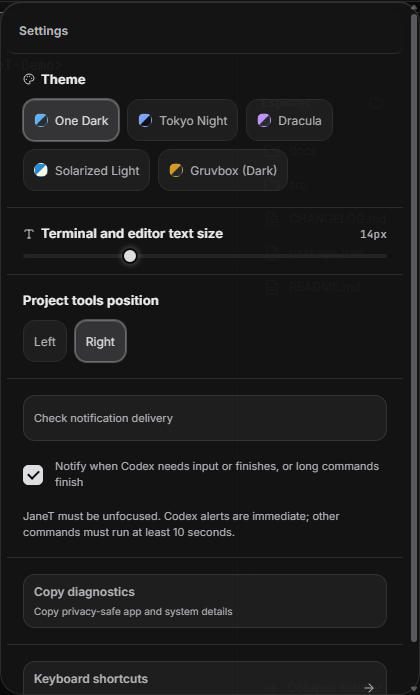
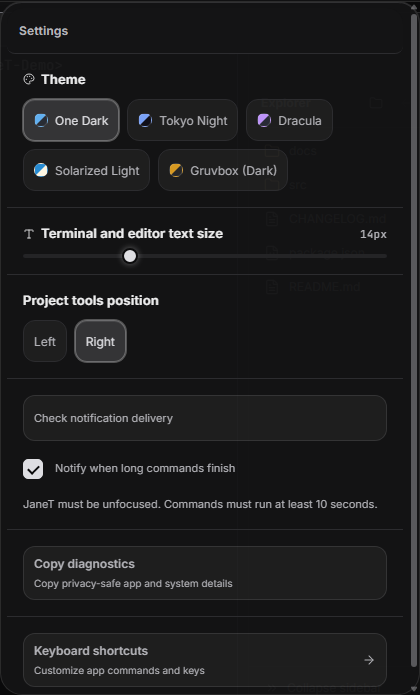
Stop JaneT from installing Codex hooks automatically (#164)
* fix: stop JaneT from installing Codex hooks

* chore: prepare v0.13.1 release

Changed region(s): [[0.031, 0.6345, 0.8976, 0.9971], [0.9595, 0.9065, 1.0, 0.9669], [0.8667, 0.9367, 0.8976, 0.9971]]

diff --git a/src/main/shell-init.ts b/src/main/shell-init.ts
@@ -9,7 +9,7 @@ export const STARTUP_READY_MARKER = '\x1b]777;janet-ready\x1b\\';
  *
  * - emits an OSC 7 escape sequence (file://HOST/PATH) before every prompt,
  *   so JaneT can keep its cwd-aware UI in sync; and
- * - prepares agent activity hooks.
+ * - prepares Hermes activity hooks.
  *
  * The Hermes wrapper is installed only when `hermes` currently resolves to
  * an external command, so a user's alias or function is never replaced.
@@ -101,7 +101,7 @@ export function buildShellInit(shell: string, agentHelper?: string): string {
       "}",
     ].join('\n');
     const helper = agentHelper?.replace(/['\u2018\u2019]/g, quote => quote + quote);
-    const agents = (agentHelper ? ['codex', 'hermes'] : []).map(agent => [
+    const agents = (agentHelper ? ['hermes'] : []).map(agent => [
       `$__jt_cli = Get-Command ${agent} -ErrorAction SilentlyContinue`,
       `$__jt_node = @(Get-Command node -CommandType Application -ErrorAction SilentlyContinue)[0]`,
       `if ($__jt_cli -and $__jt_cli.CommandType -in @('Application', 'ExternalScript') -and $__jt_node) {`,
@@ -162,7 +162,6 @@ export function buildShellInit(shell: string, agentHelper?: string): string {
       "    command hermes \"$@\"",
       "  }",
       "fi",
-      agentWrapper(agentHelper, 'bash'),
       "__jt_debug() {",
       "  local __jt_status=$?",
       "  (( __jt_debug_guard )) && return \"$__jt_status\"",
@@ -204,7 +203,7 @@ export function buildShellInit(shell: string, agentHelper?: string): string {
       "  }",
       "fi",
       "fi",
-    ].join('\n') + agentWrapper(agentHelper, 'zsh');
+    ].join('\n');
   }
 
   // Fish. The fish-prompt event handler.
@@ -250,7 +249,7 @@ export function buildShellInit(shell: string, agentHelper?: string): string {
       "  end",
       "end",
       "end",
-    ].join('\n') + agentWrapper(agentHelper, 'fish');
+    ].join('\n');
   }
 
   // cmd.exe has no scripting facility for per-prompt hooks. We could
@@ -259,21 +258,10 @@ export function buildShellInit(shell: string, agentHelper?: string): string {
   // empty so cmd.exe gets no init.
   return '';
 }
-
 function setupAgent(helper: string | undefined, agent: string, shell: string): string {
   if (!helper) return '';
   const quoted = shell === 'fish' ? helper.replace(/\\/g, '\\\\').replace(/'/g, "\\'") : helper.replace(/'/g, "'\\''");
   return shell === 'fish'
     ? `if command -sq node; command node '${quoted}' --setup-${agent} $argv; end`
     : `if command -v node >/dev/null 2>&1; then command node '${quoted}' --setup-${agent} "$@"; fi`;
-}
-
-function agentWrapper(helper: string | undefined, shell: string): string {
-  if (!helper) return '';
-  const setup = setupAgent(helper, 'codex', shell);
-  if (shell === 'fish') return `\nif type -q codex; and test (type -t codex) = file\nfunction codex\n${setup}\ncommand codex $argv\nend\nend\n`;
-  const condition = shell === 'zsh'
-    ? '(( $+commands[codex] && ! $+aliases[codex] && ! $+galiases[codex] && ! $+functions[codex] ))'
-    : '[ "$(type -t codex 2>/dev/null)" = file ]';
-  return `\nif ${condition}; then\nfunction codex {\n${setup}\ncommand 'codex' "$@"\n}\nfi\n`;
 }

diff --git a/tests/unit/agentCliLaunch.test.ts b/tests/unit/agentCliLaunch.test.ts
@@ -130,7 +130,7 @@ describe('automatic agent launch runtime', () => {
     } finally { bridge.close(); fs.rmSync(directory, { recursive: true, force: true }); }
   }, 25000);
 
-  it.skipIf(process.platform !== 'win32')('ordinary PowerShell codex invocation installs before launch and preserves arguments and exit status', async () => {
+  it.skipIf(process.platform !== 'win32')('ordinary PowerShell codex invocation leaves global hooks untouched', async () => {
     const directory = fs.mkdtempSync(path.join(fs.realpathSync(os.tmpdir()), "janet launch's "));
     const bridge = new AgentActivityBridge(() => {});
     try {
@@ -148,7 +148,7 @@ describe('automatic agent launch runtime', () => {
       expect(output).toContain('EXIT=37');
       expect(output).toContain('TERM_AFTER=xterm-256color');
       expect(output).toContain('TERM_PROGRAM_AFTER=kitty');
-      expect(fs.existsSync(path.join(env.CODEX_HOME, 'hooks.json')), output).toBe(true);
+      expect(fs.existsSync(path.join(env.CODEX_HOME, 'hooks.json')), output).toBe(false);
       fs.writeFileSync(path.join(directory, 'codex.ps1'), '$input | ForEach-Object { [Console]::WriteLine("INPUT=$_") }');
       fs.writeFileSync(script, `${buildShellInit('powershell.exe', helper)}\n'prompt from pipe' | codex -\n`);
       expect(await run('powershell.exe', ['-NoProfile', '-File', script], env)).toContain('INPUT=prompt from pipe');

diff --git a/tests/component/ThemeSwitcher.test.tsx b/tests/component/ThemeSwitcher.test.tsx
@@ -90,7 +90,7 @@ describe('ThemeSwitcher', () => {
     const onNotificationsEnabledChange = vi.fn();
 
     renderThemeSwitcher({ onNotificationsEnabledChange });
-    const enabled = screen.getByRole('checkbox', { name: 'Notify when Codex needs input or finishes, or long commands finish' });
+    const enabled = screen.getByRole('checkbox', { name: 'Notify when long commands finish' });
     expect(enabled).not.toBeChecked();
     fireEvent.click(enabled);
     expect(onNotificationsEnabledChange).toHaveBeenCalledWith(true);
@@ -99,7 +99,7 @@ describe('ThemeSwitcher', () => {
   it('shows the fixed notification threshold without an adjustment field', () => {
     renderThemeSwitcher({ notificationsEnabled: true });
     expect(screen.queryByRole('spinbutton')).toBeNull();
-    expect(screen.getByText('JaneT must be unfocused. Codex alerts are immediate; other commands must run at least 10 seconds.')).toBeInTheDocument();
+    expect(screen.getByText('JaneT must be unfocused. Commands must run at least 10 seconds.')).toBeInTheDocument();
   });
 
   it('copies diagnostics without renderer data and politely confirms success', async () => {

diff --git a/src/renderer/components/ThemeSwitcher.tsx b/src/renderer/components/ThemeSwitcher.tsx
@@ -114,9 +114,9 @@ export default function ThemeSwitcher({
         }}>Check notification delivery</button>
         <label className="notification-toggle">
           <input type="checkbox" checked={notificationsEnabled} onChange={(event) => onNotificationsEnabledChange(event.currentTarget.checked)} />
-          Notify when Codex needs input or finishes, or long commands finish
+          Notify when long commands finish
         </label>
-        <p className="workspace-form-help">JaneT must be unfocused. Codex alerts are immediate; other commands must run at least 10 seconds.</p>
+        <p className="workspace-form-help">JaneT must be unfocused. Commands must run at least 10 seconds.</p>
       </div>
       <div className="theme-section shortcut-settings-section">
         <button type="button" className="shortcut-settings-button" onClick={() => { void copyDiagnostics(); }} aria-label="Copy diagnostics">

diff --git a/tests/unit/buildShellInit.test.ts b/tests/unit/buildShellInit.test.ts
@@ -365,10 +365,12 @@ describe('buildShellInit', () => {
       expect(init).not.toContain('hermes() {');
     });
 
-    it.each(['bash', 'zsh', 'fish', 'powershell.exe'])('keeps %s activity wrappers independent of terminal identity', (shell) => {
+    it.each(['bash', 'zsh', 'fish', 'powershell.exe'])('leaves Codex unwrapped in %s', (shell) => {
       expect(buildShellInit(shell)).not.toContain('function codex');
       const init = buildShellInit(shell, '/tmp/agent-helper.cjs');
-      expect(init).toContain('--setup-codex');
+      expect(init).not.toContain('--setup-codex');
+      expect(init).not.toContain('function codex');
+      expect(init).toContain('--setup-hermes');
       expect(init).not.toContain('TERM');
     });
 

diff --git a/tests/e2e/public-screenshots.spec.ts b/tests/e2e/public-screenshots.spec.ts
@@ -348,7 +348,7 @@ test('recaptures the shipped public screenshot set from the real app', async () 
     await capture('settings-overview.png', settings);
     const notificationSettings = page.locator('.notification-settings');
     await expect(notificationSettings.getByRole('checkbox')).toBeChecked();
-    await expect(notificationSettings).toContainText('Codex alerts are immediate; other commands must run at least 10 seconds.');
+    await expect(notificationSettings).toContainText('Commands must run at least 10 seconds.');
     await capture('notification-settings.png', notificationSettings);
     await page.getByRole('button', { name: 'Hide settings' }).click();
 

diff --git a/docs/site/guide/agent-activity.md b/docs/site/guide/agent-activity.md
@@ -27,11 +27,9 @@ Visiting a project acknowledges its unseen results. Activity is live session sta
 
 ## Codex CLI
 
-Start a **new local terminal** in JaneT and type `codex` normally. JaneT configures its activity observers on launch while preserving unrelated Codex settings and existing notification commands. Codex may ask you to trust the folder and review new hooks. Use `/hooks` to review and trust JaneT's hooks yourself. Folder trust and hook trust are separate; administrator policy and disabled hooks still apply.
+Start a **new local terminal** in JaneT and type `codex` normally. JaneT currently leaves Codex's global hooks and notification command untouched. Codex works as a terminal program, but JaneT cannot reliably identify its turn completion or approval requests; the pane may show **Activity tracking incomplete**. JaneT still tracks the foreground shell command.
 
-Node.js must be available on `PATH`, and the installed Codex version must support the required hooks and notification callback. If setup is unavailable, Codex still launches, but JaneT may show **Activity tracking incomplete**.
-
-To receive a desktop alert when Codex requests permission or finishes a turn while JaneT is in the background, enable **Notify when Codex needs input or finishes, or long commands finish** in **Settings**. Alerts contain the project and pane names, not the prompt or response. A permission-request event can precede Codex's own prompt; open the terminal to see what Codex is asking. Selecting the alert brings JaneT to that terminal. Codex turn alerts have no minimum duration.
+The **Notify when long commands finish** setting covers tracked shell commands. Codex turn and approval alerts are unavailable while its activity hooks are disabled.
 
 ## Hermes CLI and TUI
 
@@ -39,6 +37,6 @@ Type `hermes` or `hermes --tui` in a new local terminal. JaneT adds activity obs
 
 ## When an indicator is incomplete
 
-Automatic launch setup covers PowerShell, Bash, Zsh, and Fish. It does not automatically follow an explicit binary path, nested shell, `cmd.exe`, SSH, WSL, or container host. Those sessions remain usable as ordinary terminals. An uninstrumented long-running TUI is a shell command; JaneT cannot infer the agent's turn completion from terminal silence.
+Hermes launch setup covers PowerShell, Bash, Zsh, and Fish. It does not automatically follow an explicit binary path, nested shell, `cmd.exe`, SSH, WSL, or container host. Those sessions remain usable as ordinary terminals. An uninstrumented long-running TUI is a shell command; JaneT cannot infer the agent's turn completion from terminal silence.
 
 Hook delivery can also be blocked or delayed by the agent's own policy or runtime. Treat the indicator as a cue to inspect the agent terminal, not as confirmation that a tool succeeded. For implementation details and diagnostics, see the [activity integration notes](https://github.com/Sjormz/JaneT/blob/main/docs/terminal-activity.md).

diff --git a/docs/terminal-activity.md b/docs/terminal-activity.md
@@ -8,7 +8,9 @@ JaneT uses explicit shell/agent lifecycle events, never silence or screen scrapi
 - Red: unseen failure. Muted: no integration, exited or disconnected. Hover/accessible labels explain each state.
 - Unseen results remain while other terminals run. Visiting a project acknowledges its results; returning focus acknowledges the currently visible project. Indicators are live session state, not persisted claims about restarted processes.
 
-## Codex CLI
+## Codex CLI (dormant integration)
+
+JaneT currently does not wrap `codex` or install its hooks and notification callback. The implementation below remains in the repository for controlled diagnostics; it does not run from current shell initialization. Older JaneT builds can still install it until updated and restarted.
 
 Requires Node.js on PATH and a Codex release supporting the documented hooks and `notify` callback. Tested against the official hook contract and the installed Codex CLI 0.156.1 with a disposable local Responses provider.
 
@@ -29,7 +31,7 @@ A user-supplied `-c notify=...` takes precedence; JaneT reports **Activity track
 
 ### Remove integration
 
-Remove the JaneT command entries from the agent's hooks configuration. For a forwarded `notify`, restore the original argv array encoded in its fourth element; if that array is empty, remove the JaneT notification setting. Preserve unrelated hooks. Backups are available as `*.janet-backup-*`; restoring an old backup wholesale also loses subsequent edits, so compare first. Normal launches inside JaneT will reconnect; use the executable's full path (or your own alias/function) to bypass the launch wrapper. Outside JaneT only the preserved notifier runs.
+Remove the JaneT command entries from the agent's hooks configuration. For a forwarded `notify`, restore the original argv array encoded in its fourth element; if that array is empty, remove the JaneT notification setting. Preserve unrelated hooks. Backups are available as `*.janet-backup-*`; restoring an old backup wholesale also loses subsequent edits, so compare first. Older JaneT builds can reconnect the integration; update and restart JaneT, then recreate its terminals. Outside JaneT only the preserved notifier runs.
 
 ## Hermes CLI and TUI
 

diff --git a/docs/site/guide/settings.md b/docs/site/guide/settings.md
@@ -19,11 +19,11 @@ Select the gear-shaped **Settings** button in the title bar to open appearance, 
 
 ## Get background notifications
 
-Notifications are off by default. Enable **Notify when Codex needs input or finishes, or long commands finish** to receive desktop alerts while JaneT is unfocused. A tracked Codex permission request or completed turn can alert immediately. Other tracked commands must run for at least 10 seconds. Select a notification to return to its terminal. JaneT's notification integration and your operating system's notification settings both affect delivery.
+Notifications are off by default. Enable **Notify when long commands finish** to receive desktop alerts while JaneT is unfocused. Tracked commands must run for at least 10 seconds. Select a notification to return to its terminal. JaneT's notification integration and your operating system's notification settings both affect delivery.
 
-![Settings notification switch for Codex activity and long commands, beside the delivery check](/screenshots/notification-settings.png)
+![Settings switch for long-command notifications beside the delivery check](/screenshots/notification-settings.png)
 
-*One switch controls Codex activity and long-command alerts.*
+*The switch enables alerts for long-running commands.*
 
 Select **Check notification delivery** to check whether desktop notifications are available and whether JaneT has observed a delivery failure. A supported result does not override operating-system notification permissions or Do Not Disturb settings.
 

diff --git a/docs/site/reference/troubleshooting.md b/docs/site/reference/troubleshooting.md
@@ -11,7 +11,7 @@ JaneT does not create starter workspaces or projects automatically. To create te
 
 ## A notification did not appear
 
-Open **Settings** and check **Notify when Codex needs input or finishes, or long commands finish**. Notifications are off by default, and JaneT must be unfocused. Codex alerts depend on its [activity integration](/guide/agent-activity); other tracked commands must run at least 10 seconds. Select **Check notification delivery** in Settings. If notifications are supported, check your operating system's app notification permissions and Do Not Disturb settings. Commands in unsupported shells may not report reliable command completion; see [Terminals and panes](/guide/terminals#navigate-completed-commands).
+Open **Settings** and check **Notify when long commands finish**. Notifications are off by default, JaneT must be unfocused, and tracked commands must run at least 10 seconds. Codex turn and approval alerts are currently unavailable; see [Agent activity](/guide/agent-activity). Select **Check notification delivery** in Settings. If notifications are supported, check your operating system's app notification permissions and Do Not Disturb settings. Commands in unsupported shells may not report reliable command completion; see [Terminals and panes](/guide/terminals#navigate-completed-commands).
 
 ## JaneT says it could not load workspace settings
 

diff --git a/docs/site/reference/privacy.md b/docs/site/reference/privacy.md
@@ -17,7 +17,7 @@ Editor documents are files on your disk. JaneT does not turn them into a separat
 
 JaneT checks GitHub Releases for updates. A Git fetch, pull, or push uses the remote configured for that repository. Commands and agent CLIs you run in a terminal have their own network and data behavior; consult their documentation before using them with sensitive material.
 
-Codex and Hermes activity integration passes bounded lifecycle information to JaneT. It does not send prompt text, tool input or output, transcript paths, or assistant messages into JaneT's activity bridge. Existing agent notification handlers remain under the agent's own configuration.
+Hermes activity integration passes bounded lifecycle information to JaneT. It does not send prompt text, tool input or output, transcript paths, or assistant messages into JaneT's activity bridge. JaneT currently does not install Codex activity hooks or change its notification command. Existing agent notification handlers remain under the agent's own configuration.
 
 ## Screenshots and support reports
 

diff --git a/docs/site/guide/terminals.md b/docs/site/guide/terminals.md
@@ -60,4 +60,4 @@ Selected panes stay highlighted while broadcasting. JaneT clears the set if a se
 
 For supported agent sessions, JaneT can show status such as **Running**, **Needs input**, **Ready**, or a completed result in the pane and workspace sidebar. Activity uses explicit lifecycle hooks and does not read the agent transcript. It is best-effort workspace information, not an authenticated signal about which process produced terminal output.
 
-See [Agent activity](/guide/agent-activity) for supported Codex and Hermes setup, shell coverage, and limitations. In particular, activity setup does not automatically bridge SSH, WSL, or container hosts; those sessions may still be used as ordinary terminal sessions.
+See [Agent activity](/guide/agent-activity) for Hermes setup, the current Codex limitation, shell coverage, and other limits. Activity setup does not automatically bridge SSH, WSL, or container hosts; those sessions may still be used as ordinary terminal sessions.
